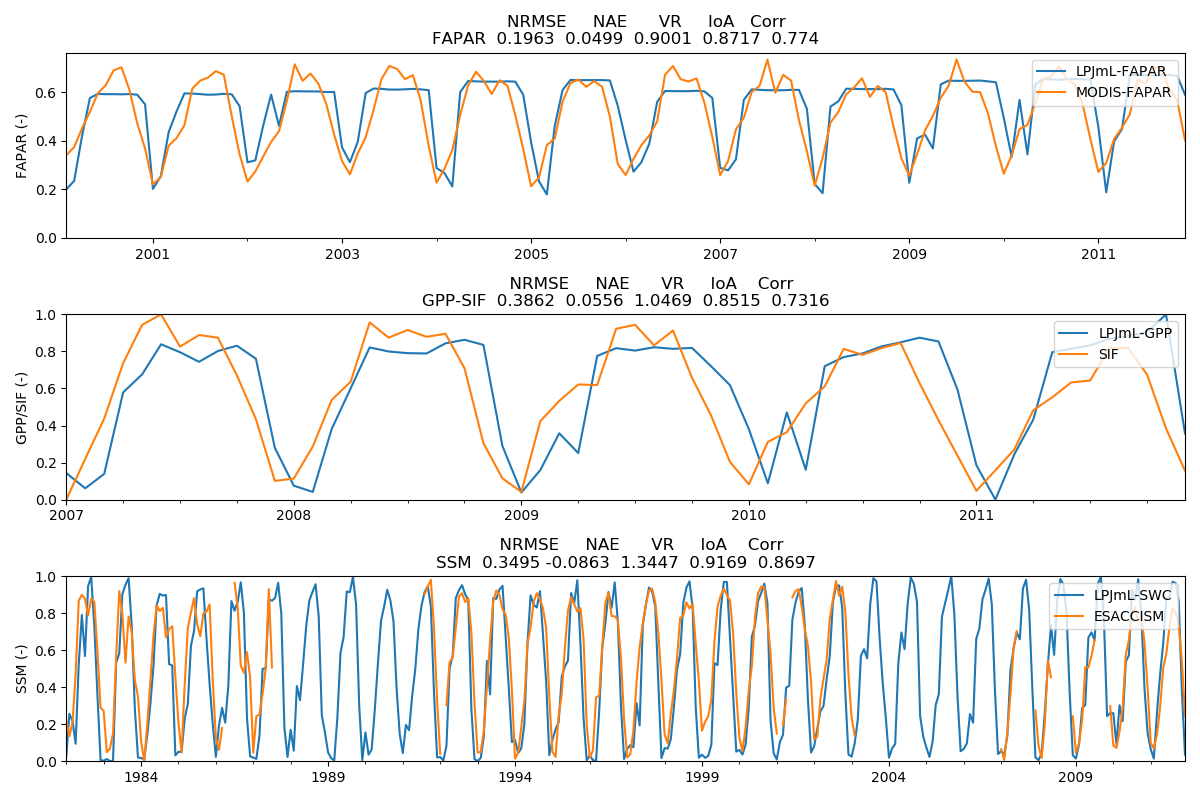
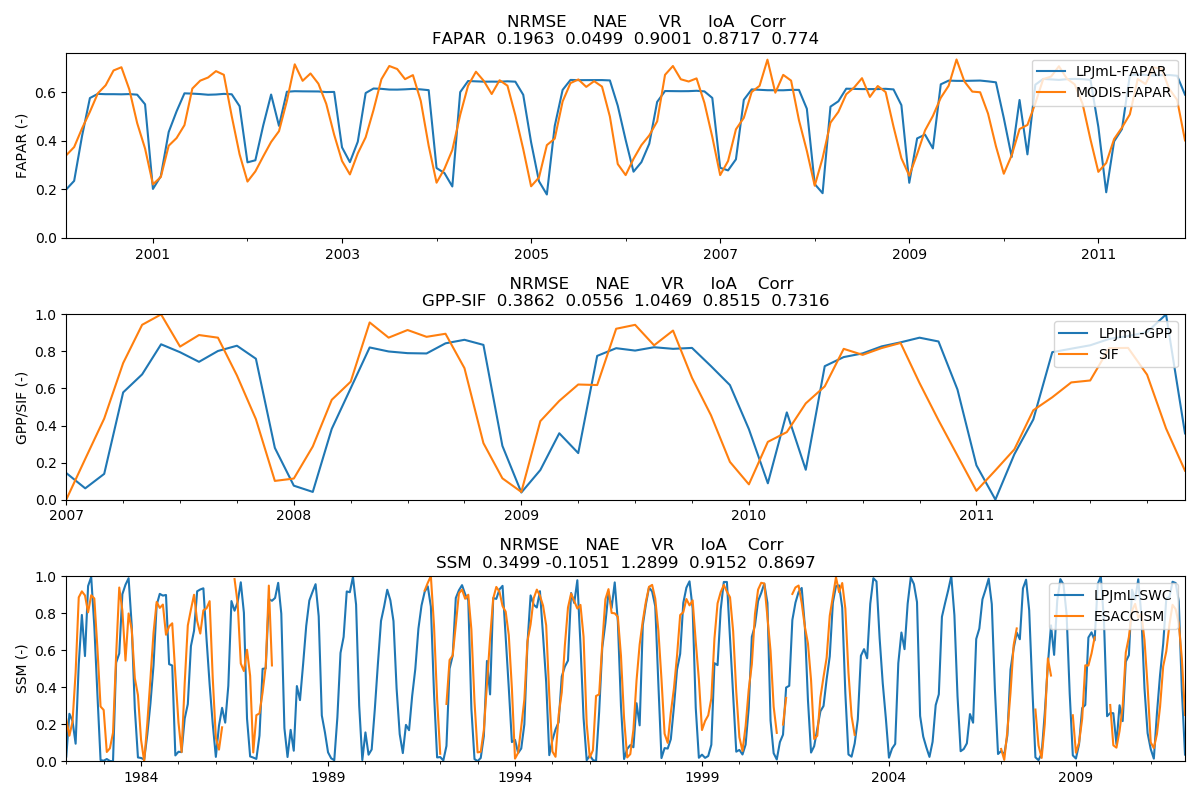
fixed min-max scaling in taskB

diff --git a/taskB.py b/taskB.py
@@ -69,6 +69,7 @@ def evaluate_model(datapath, outpath, cell):
     mfapar = mfapar.rename(columns={'mfapar': 'LPJmL-FAPAR'})#.fillna(0.0)
     fapar_sat = read_data(os.path.join(satpath, 'MOD15A2H.FPAR.forLPJcells.2000.2018.30days.txt'))
     fapar_sat_cell = fapar_sat[cell].rename('MODIS-FAPAR')#.fillna(0.0)
+
     index_min = max([mfapar.index.min(), fapar_sat_cell.index.min()])
     index_max = min([mfapar.index.max(), fapar_sat_cell.index.max()])
     fapar_comb = pd.concat([mfapar, fapar_sat_cell], axis=1, sort=True).loc[index_min:index_max]
@@ -81,13 +82,20 @@ def evaluate_model(datapath, outpath, cell):
     # norm to evaluate temporal dynamic of GPP?
     mgpp = read_data(os.path.join(lpjmlpath, 'cell_{}'.format(cell), '{}_mgpp.txt'.format(cell)))
     mgpp = mgpp.rename(columns={'mgpp': 'LPJmL-GPP'})#.fillna(0.0)
-    mgpp_norm = normalize_df(mgpp)
     sif = read_data(os.path.join(satpath, 'GlobFluo-GOME2.SIF.forLPJcells.2007.2015.30days.txt'))
     sif_cell = sif[cell].rename('SIF')#.fillna(0.0)
-    sif_cell_norm = normalize_df(sif_cell)
+
+    # clip to common date range
     index_min = max([mgpp.index.min(), sif_cell.index.min()])
     index_max = min([mgpp.index.max(), sif_cell.index.max()])
-    gpp_sif = pd.concat([mgpp_norm, sif_cell_norm], axis=1, sort=True).loc[index_min:index_max]
+    sif_cell = sif_cell.loc[index_min:index_max]
+    mgpp = mgpp.loc[index_min:index_max]
+
+    # min-max normalization
+    mgpp_norm = normalize_df(mgpp)
+    sif_cell_norm = normalize_df(sif_cell)
+
+    gpp_sif = pd.concat([mgpp_norm, sif_cell_norm], axis=1, sort=True)
 
     # metrics
     gpp_sif_metrics = calc_metrics(gpp_sif, 'GPP-SIF')
@@ -98,11 +106,18 @@ def evaluate_model(datapath, outpath, cell):
     mswc = mswc.rename(columns={'mswc1': 'LPJmL-SWC'})#.fillna(0.0)
     ssm = read_data(os.path.join(satpath, 'ESACCIv050.SSM.forLPJcells.1978.2017.30days.txt'))
     ssm = ssm[cell].rename('ESACCISM')#.fillna(0.0)
-    ssm_norm = normalize_df(ssm)
-    mswc_norm = normalize_df(mswc)
+
+    # clip to common date range
     index_min = max([ssm.index.min(), mswc.index.min()])
     index_max = min([ssm.index.max(), mswc.index.max()])
-    ssm_comb = pd.concat([mswc_norm, ssm_norm], axis=1, sort=True).loc[index_min:index_max]
+    mswc = mswc.loc[index_min:index_max]
+    ssm = ssm.loc[index_min:index_max]
+
+    # min-max normalization
+    ssm_norm = normalize_df(ssm)
+    mswc_norm = normalize_df(mswc)
+
+    ssm_comb = pd.concat([mswc_norm, ssm_norm], axis=1, sort=True)
 
     # metrics
     ssm_metrics = calc_metrics(ssm_comb, 'SSM')
@@ -111,7 +126,6 @@ def evaluate_model(datapath, outpath, cell):
     # -------------------------------------------------------------------------
     metric_results = pd.concat([fapar_metrics, gpp_sif_metrics, ssm_metrics])
     metric_results.to_csv(os.path.join(outpath, 'metrics_cell_{}.csv'.format(cell)))
-    print(metric_results)
 
     # create plot
     # -------------------------------------------------------------------------
